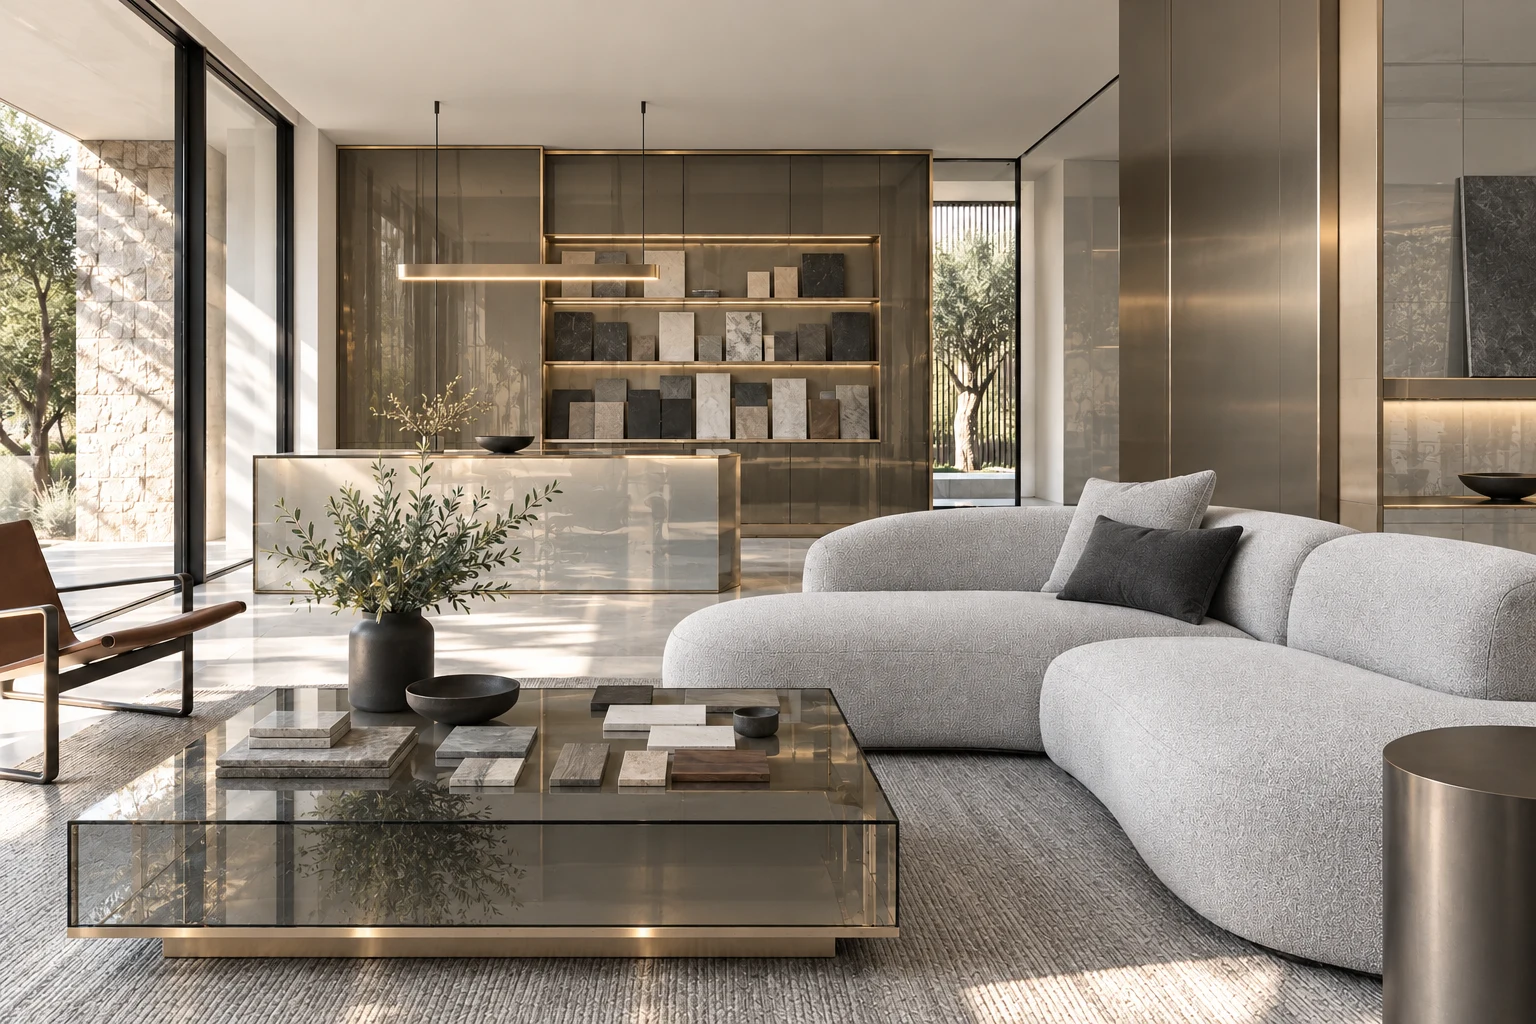
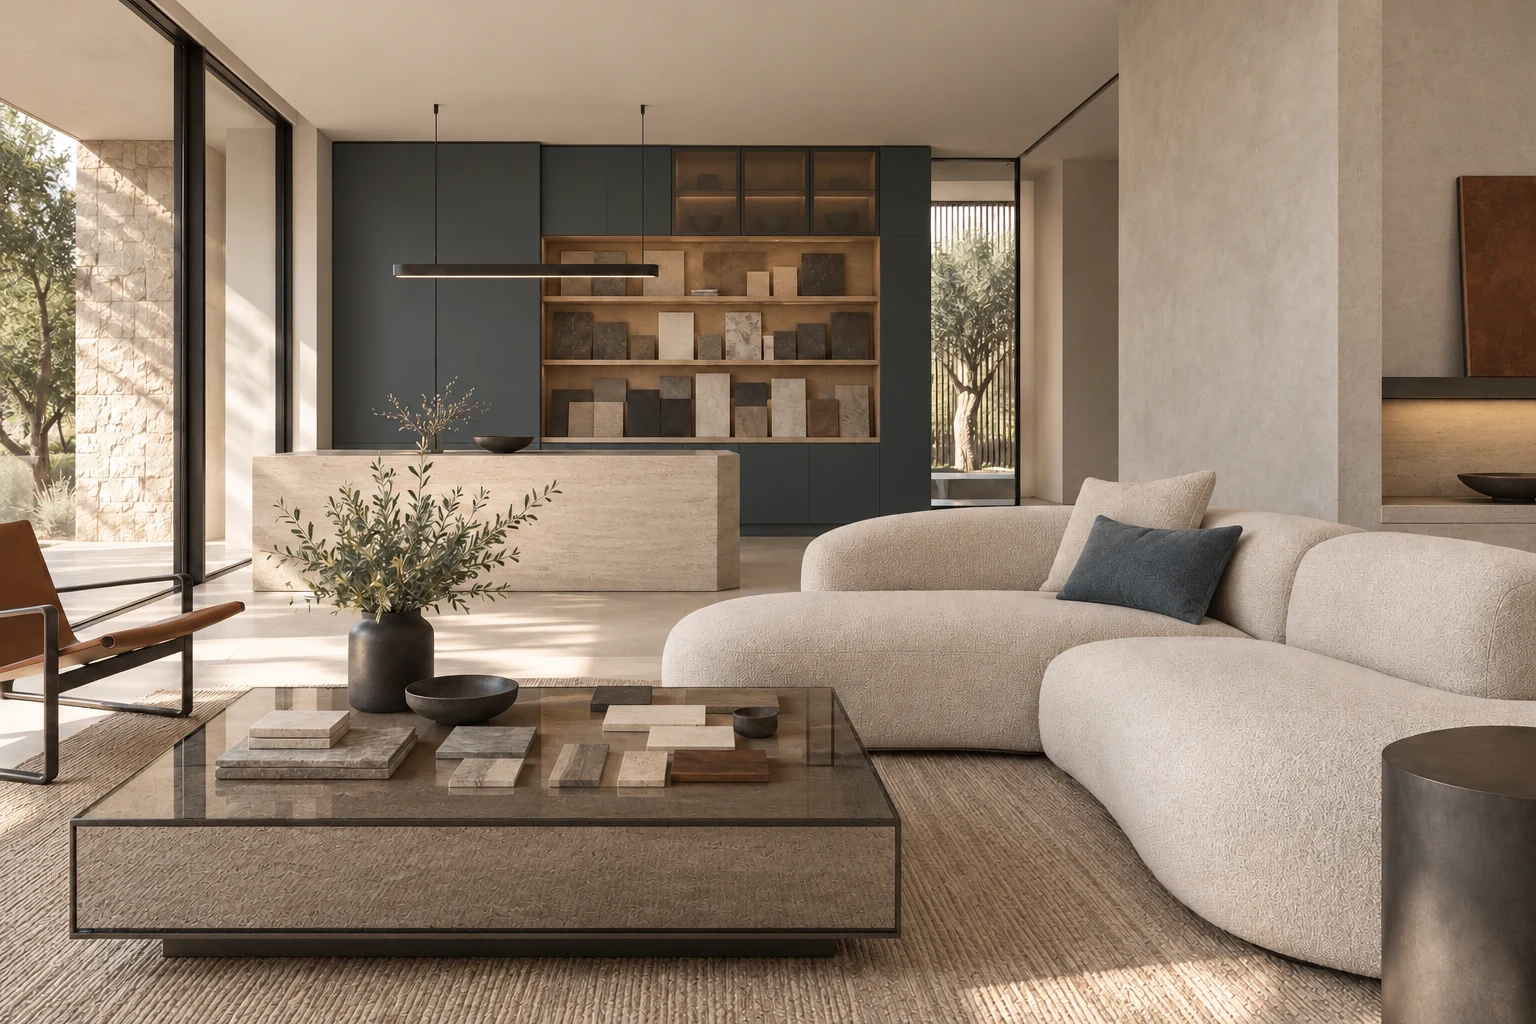
refactor(site): balance interior material palettes

diff --git a/docs/v4/design-site-luxury-experiment.md b/docs/v4/design-site-luxury-experiment.md
@@ -2,8 +2,12 @@
 
 Status: implemented as a local visual experiment.
 
-Material-scheme revision: accepted for implementation. The user requests
-complete alternative room images and a lighter hero scrim.
+Material-scheme revision: implemented. The user requests complete alternative
+room images and a lighter hero scrim.
+
+Material-balance refinement: implemented. The user prefers
+subtle, professionally composed interiors over repeated single-material
+finishes across the whole room.
 
 ## Context
 
@@ -45,6 +49,30 @@ Wood is the default. These images illustrate material direction; they do not
 depict completed Harpa projects or prove supplied products. Keep that meaning
 clear in the visible concept caption and each image's descriptive alt text.
 The factory, furniture, document, and drawing evidence elsewhere stays real.
+
+### Balanced material schemes
+
+Keep the same room, camera, furniture silhouettes, and daylight. Give each
+scheme its own restrained palette and a clear hierarchy of finishes. A
+material name describes the direction, not every surface in the room. Avoid
+repeating identical grain, veining, or reflective metal across walls, floors,
+joinery, and tables.
+
+- Wood: walnut joinery, chalk plaster, pale honed stone, natural linen, and a
+  muted olive accent. Timber remains the principal joinery finish; tables,
+  floors, and surrounding walls provide contrast.
+- Stone & Marble: a subtly veined marble coffee table and one controlled stone
+  detail, with painted joinery, oak shelf interiors, matte plaster, soft
+  textiles, and a muted wine accent. Keep broad surfaces quiet.
+- Glass & Modern: a smoked-glass coffee table and limited glass cabinet
+  fronts, with deep blue-grey joinery, warm oak details, matte plaster,
+  pale stone flooring, and tactile upholstery. Use metal for small fittings;
+  avoid mirrored walls, metal-clad architecture, or transparent islands.
+
+The result should look like three credible material selections by an interior
+designer. Inspect the generated scenes for material balance and believable
+construction before replacing the current assets. Preserve the lighter scrim
+and the existing image-switching behavior.
 
 Lighten the scrim so visitors can see the room and material changes. Reduce
 the broad dark overlay while retaining a local gradient behind the title,
